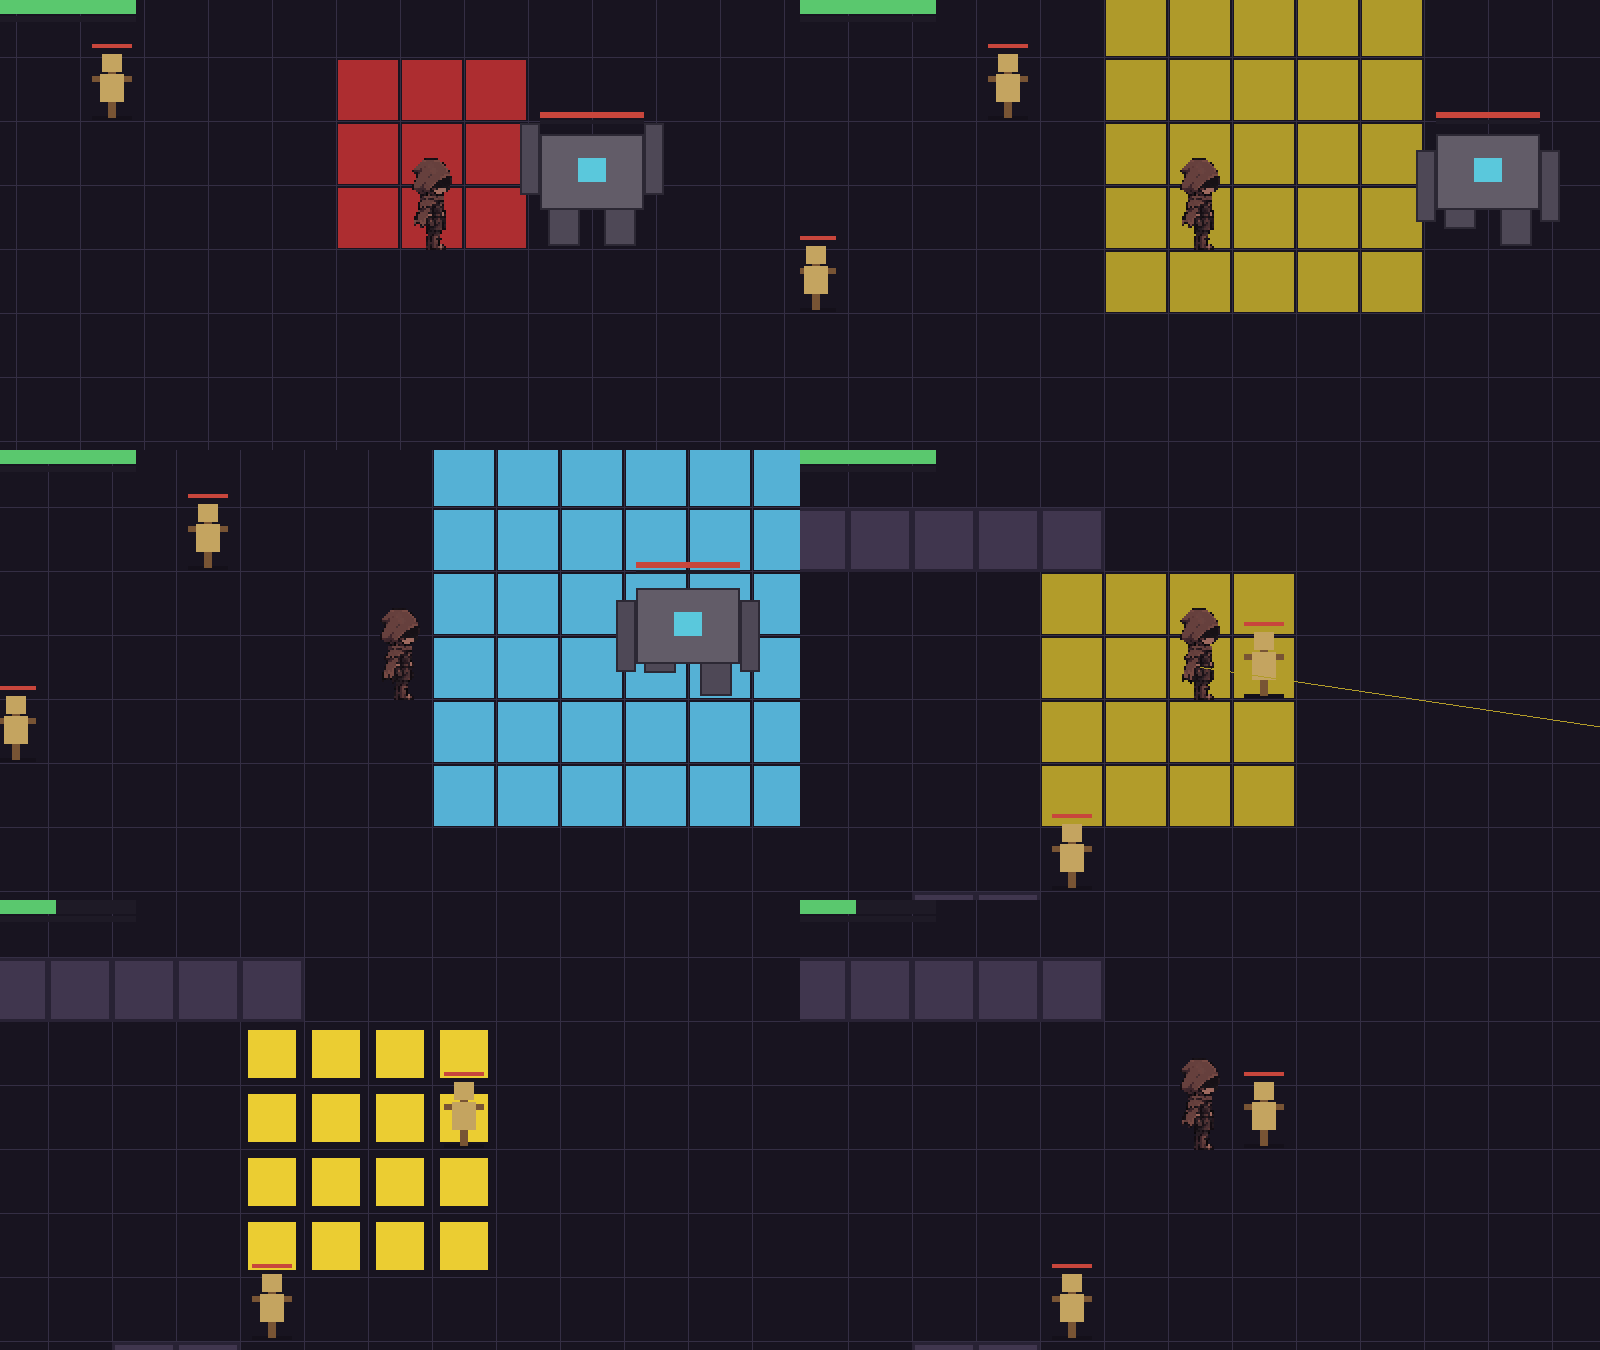
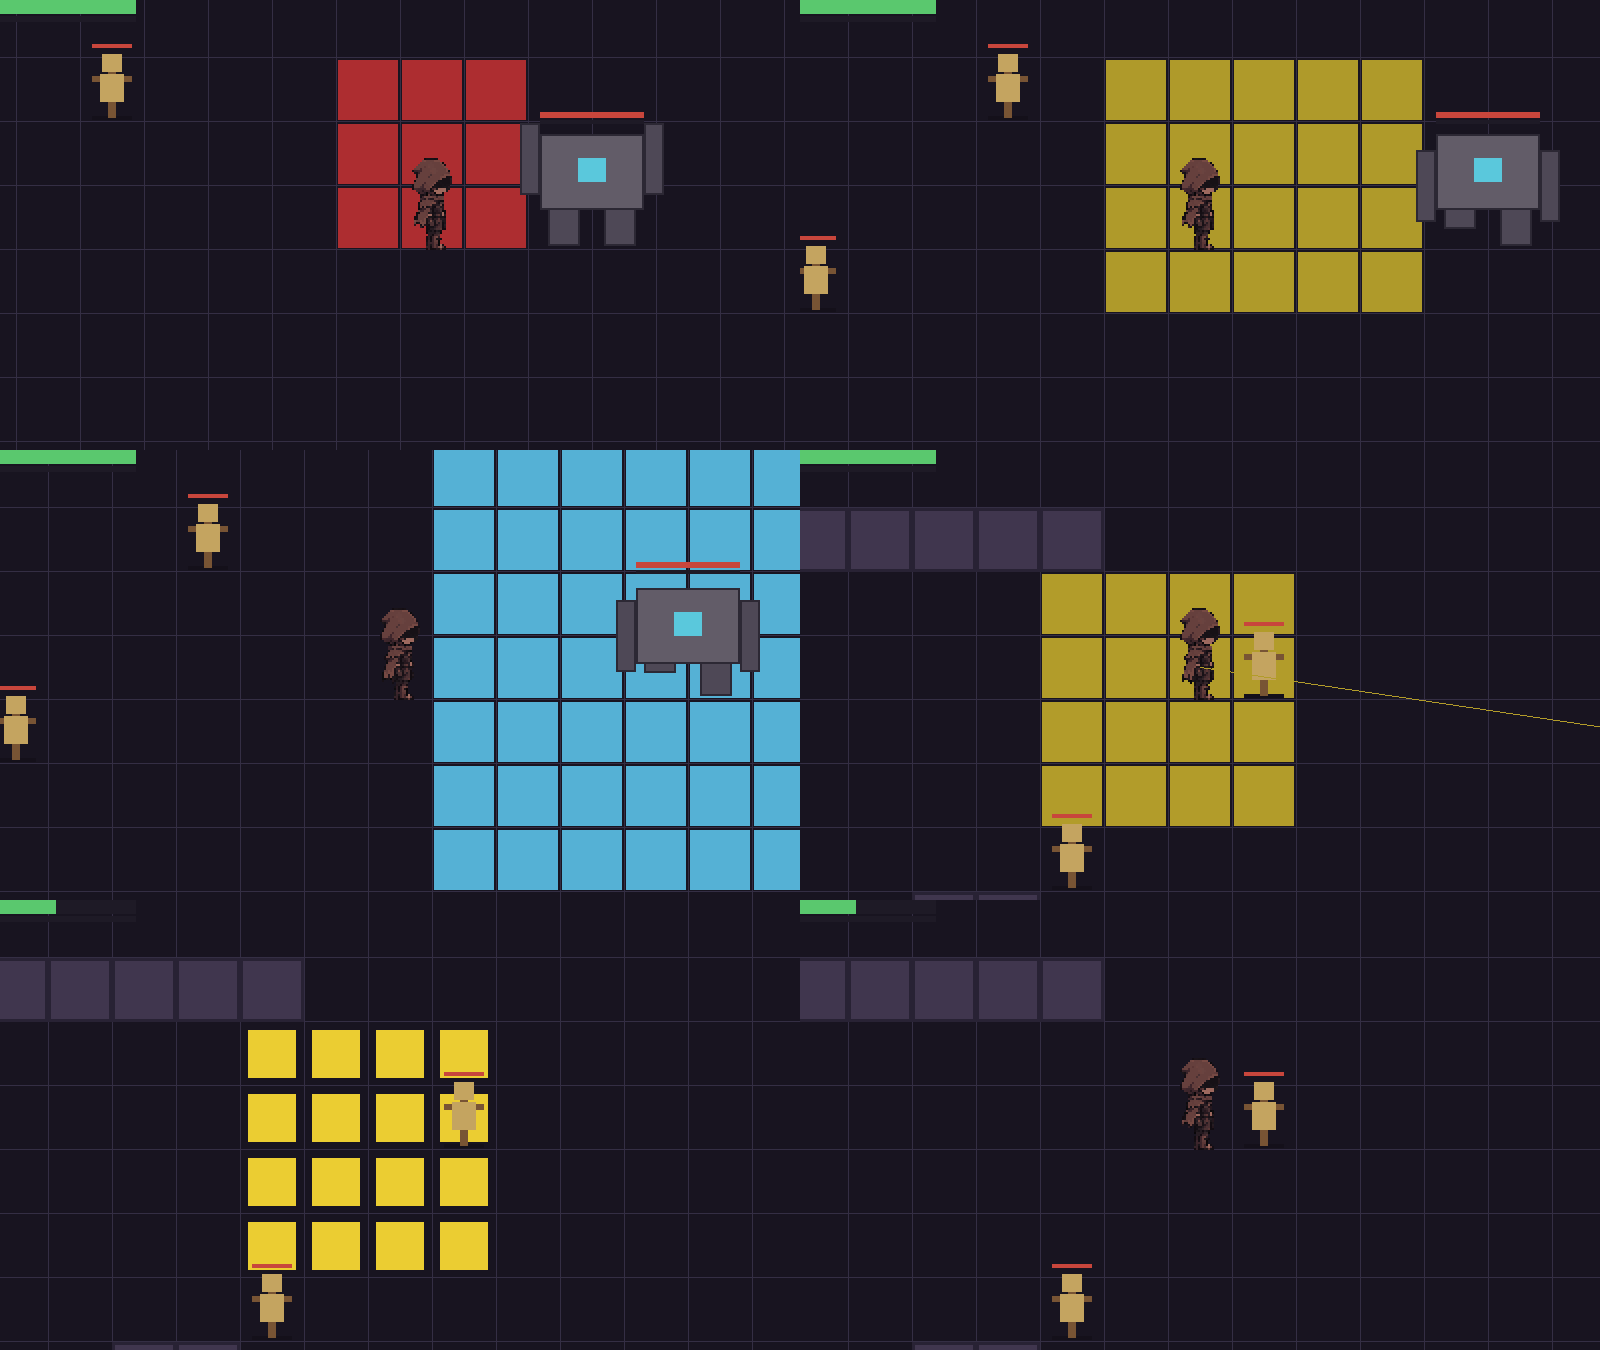
fix: 골렘 앞차기 가로 4×앞으로 5, 발 구르기 8×8 (대칭)
홀수 너비는 몸(2×2) 기준으로 대칭이 안 맞아 짝수로 변경 (사용자 요청)

Changed region(s): [[0.25, 0.5911, 0.5, 0.6844], [0.6875, 0.0, 0.9062, 0.0622]]

diff --git a/game/config.py b/game/config.py
@@ -178,9 +178,10 @@ GOLEM_HIT_FLASH_TIME = 0.1
 # 패턴: 예고 시간(초), 피해, 범위. 앞쪽 범위는 (가로 칸 수, 앞으로 칸 수).
 # 2026-11-17 사용자 요청: 예고가 길어 걸어서 쉽게 빠져나가서 ① 0.8 → 0.35, ② 0.6 → 0.3, ③ 1.2 → 0.55초
 GOLEM_SLAM = {"windup": 0.35, "damage": 20, "width": 3, "depth": 3}  # ① 두 손 모아 내려찍기: 패링 가능
-# 2026-11-17 사용자 요청으로 예고 0.3 → 0.6초, 범위 가로 3 → 5 (5×5)
-GOLEM_KICK = {"windup": 0.6, "damage": 15, "width": 5, "depth": 5}  # ② 뒤로 들었다 앞차기: 패링 불가, 회피 무적 가능
-GOLEM_STOMP = {"windup": 0.55, "damage": 30, "size": 7}  # 2026-11-17 사용자 요청으로 6×6 → 7×7  # ③ 한 발 내려찍기: 중심 6×6, 점프로만 피함
+# 2026-11-17 사용자 요청으로 예고 0.3 → 0.6초, 범위 가로 3 → 5 → 4 (가로 4 × 앞으로 5, 몸 양옆 1줄씩 대칭)
+GOLEM_KICK = {"windup": 0.6, "damage": 15, "width": 4, "depth": 5}  # ② 뒤로 들었다 앞차기: 패링 불가, 회피 무적 가능
+# 2026-11-17 사용자 요청으로 6×6 → 7×7 → 8×8 (몸 2×2 둘레로 3칸씩, 대칭)
+GOLEM_STOMP = {"windup": 0.55, "damage": 30, "size": 8}  # ③ 한 발 내려찍기: 중심 6×6, 점프로만 피함
 # ④ 코어 레이저: 4초 조준(조준점이 발사 순간까지 주인공을 따라옴) 후 조준점에서 4×4 폭발 (벽 칸은 제외).
 #   일직선으로 관통하지 않는다 (2026-11-17 사용자 결정). 패링 불가, 회피 무적으로 피함
 GOLEM_LASER = {"windup": 4.0, "damage": 40, "beam_time": 0.3, "size": 4}

diff --git a/tests/test_golem.py b/tests/test_golem.py
@@ -75,15 +75,16 @@ class GolemAreaTest(unittest.TestCase):
         self.golem.facing = (0, 1)
         area = self.golem.front_area(3, 5, (8, 7))
         self.assertEqual(area, {(c, r) for c in (6, 7, 8) for r in (6, 7, 8)})  # 위쪽 벽(9)에서 멈춤
-        # 가로 5 (앞차기): 몸 양옆 1줄씩 + 주인공 쪽 1줄
+        # 가로 4 (앞차기): 몸 양옆 1줄씩, 대칭
         self.golem.facing = (-1, 0)
-        area = self.golem.front_area(5, 5, (2, 5))
-        self.assertEqual(area, {(c, r) for c in range(1, 6) for r in range(3, 8)})
+        area = self.golem.front_area(4, 5, (2, 8))
+        self.assertEqual(area, {(c, r) for c in range(1, 6) for r in range(3, 7)})
 
-    def test_stomp_area_seven_by_seven(self):
-        # 7×7: 몸 (6~7, 4~5) 둘레로 2칸씩 + 남는 한 줄은 주인공 쪽 (왼쪽 아래에 있으면 왼쪽·아래로)
-        self.assertEqual(self.golem.stomp_area((1, 1)), {(c, r) for c in range(3, 10) for r in range(1, 8)})
-        self.assertEqual(self.golem.stomp_area((12, 8)), {(c, r) for c in range(4, 11) for r in range(2, 9)})
+    def test_stomp_area_eight_by_eight(self):
+        # 8×8: 몸 (6~7, 4~5) 둘레로 3칸씩, 주인공 위치와 상관없이 대칭 (아래쪽 0행·위쪽 9행은 벽이라 제외)
+        area = {(c, r) for c in range(3, 11) for r in range(1, 9)}
+        self.assertEqual(self.golem.stomp_area((1, 1)), area)
+        self.assertEqual(self.golem.stomp_area((12, 8)), area)
 
     def test_laser_explodes_four_by_four_at_aim(self):
         self.golem.aim = (3.0, 5.0)  # 조준점을 가운데로 한 4×4

diff --git a/game/enemies/golem.py b/game/enemies/golem.py
@@ -4,7 +4,8 @@
     가까우면(GOLEM_NEAR) ① 두 손 내려찍기·② 앞차기·③ 한 발 내려찍기 중 하나, 중간(GOLEM_MID)이면 ② 앞차기 또는 다가감,
     더 멀면 ④ 코어 레이저(GOLEM_LASER_COOLDOWN 에 한 번) 또는 다가감. 걸을 때는 쉬지 않고 이어서 걷는다.
 - 패턴마다 예고(windup) → 터짐(EnemyAttack 을 attacks 에 넣음) → 자세 되돌림(recover) → 쉼(rest).
-    ① 앞 3×3, 패링 가능  ② 앞 5×5, 패링 불가·회피 무적 가능  ③ 중심 7×7, 점프로만 피함
+    ① 앞 3×3, 패링 가능  ② 앞 가로 4 × 앞으로 5, 패링 불가·회피 무적 가능  ③ 중심 8×8, 점프로만 피함
+    범위는 몸(2×2)을 기준으로 늘린다. 홀수 너비(① 3)는 대칭이 안 되어 남는 한 줄을 주인공 쪽에 붙인다.
     ④ 4초 동안 조준점이 주인공을 그대로 따라오다(발사 순간까지) 조준점에서 4×4 폭발 (벽 칸 제외), 회피 무적으로 피함
 - 패링당하면 패링 게이지가 25% 차고(경직 없음), 가득 차면 2초 기절한다 (PostureGauge). 몬스터형이라 게이지는 저절로 줄지 않는다.
 - 체력이 다하면 사라졌다가 GOLEM_RESPAWN_TIME 뒤 처음 자리에 다시 나타난다.

diff --git a/PRE-PRD.md b/PRE-PRD.md
@@ -153,9 +153,9 @@
   - 패턴 (예고 후 터짐). 예고 칸(히트박스) 색은 공격 종류별 (2026-11-17 사용자 결정):
     **패링 가능한 일반 공격 = 빨강**, **패링 불가(회피로 피함) = 노랑**, **점프로만 피함 = 하늘색**. 터지기 직전일수록 진해집니다.
     - ① 두 손 모아 앞으로 내려찍기, 앞 **3×3**, **패링 가능**
-    - ② 발을 뒤로 들었다 앞으로 차기, 앞 ~~**3×5**(가로 3 × 앞으로 5)~~ **5×5** (2026-11-17 사용자 요청), 패링 불가 (회피 무적으로 피함)
-    - ③ 한 발 들고 내려찍기, 중심 ~~**6×6**~~ **7×7** (2026-11-17 사용자 요청), 회피·패링 불가 → **점프로 피함** (하단 공격)
-    - 골렘 몸이 2×2 라 홀수 너비는 정확히 가운데에 둘 수 없어, 남는 한 줄은 주인공이 있는 쪽으로 붙입니다.
+    - ② 발을 뒤로 들었다 앞으로 차기, 앞 ~~**3×5**(가로 3 × 앞으로 5)~~ ~~**5×5**~~ **가로 4 × 앞으로 5** (2026-11-17 사용자 요청, 대칭), 패링 불가 (회피 무적으로 피함)
+    - ③ 한 발 들고 내려찍기, 중심 ~~**6×6**~~ ~~**7×7**~~ **8×8** (2026-11-17 사용자 요청, 대칭), 회피·패링 불가 → **점프로 피함** (하단 공격)
+    - 범위는 골렘 몸(2×2)을 기준으로 늘립니다. 몸이 짝수라 홀수 너비(① 가로 3)는 대칭이 안 되어 남는 한 줄을 주인공 쪽에 붙입니다.
     - ④ 중앙 코어 레이저: **약 4초** 동안 조준점이 주인공을 따라다니며 충전한 뒤 발사, 패링 불가 (회피 무적으로 피함).
       조준점은 **발사 순간까지** 주인공을 그대로 따라옵니다 (2026-11-17 사용자 결정) → 걸어서는 못 피하고 회피 타이밍으로 피함.
       ~~벽까지 일직선~~ → 관통하지 않고 **조준점에서 4×4 폭발**, 범위 안의 벽 칸은 제외 (2026-11-17 사용자 결정)
@@ -283,6 +283,7 @@
 
 | 날짜 | 내용 | 작성 |
 |---|---|---|
+| 2026-11-17 | 사용자 요청으로 골렘 ② 앞차기 가로 4 × 앞으로 5, ③ 발 구르기 8×8 (대칭) (2.4) | Claude Code |
 | 2026-11-17 | 사용자 요청으로 골렘 ② 앞차기 5×5, ③ 발 구르기 7×7, 몬스터형 패링 게이지는 저절로 줄지 않음 (2.2, 2.4) | Claude Code |
 | 2026-11-17 | 사용자 결정으로 레이저를 조준점 4×4 폭발(벽 칸 제외)로, 회피 2칸, 퍼펙트 회피(노란 공격 직전 회피 시 대기 시간 없음) 추가, 시험 맵 골렘 주변 벽 제거 (2.2, 2.4) | Claude Code |
 | 2026-11-17 | 사용자 결정으로 골렘 ② 앞차기 예고 0.3 → 0.6초, 예고 칸 색을 공격 종류별로(빨강 패링 가능 / 노랑 패링 불가 / 하늘색 점프로만) (2.4) | Claude Code |

diff --git a/docs/DECISIONS.md b/docs/DECISIONS.md
@@ -349,5 +349,5 @@
   퍼펙트 회피: `Player.receive_attack` 이 먼저 확인한다. 노란색 공격(패링 불가·회피 가능)이 터질 때 회피를 시작한 칸이 범위 안이고
   회피 시작 뒤 `PLAYER_PERFECT_DODGE_WINDOW`(0.4초) 이내면 성공 → 회피 대기 시간 0, "PERFECT" 표시. 회피 한 번에 한 번.
   시험 맵: 골렘 주변 안쪽 벽(23열 세로 벽, 오른쪽 위 기둥, 오른쪽 아래 가로 벽) 제거 (사용자 요청).- 2026-11-17 수정: ② 앞차기 5×5, ③ 발 구르기 7×7. 몸(2칸)보다 넓은 범위는 `_spread` 로 양쪽에 똑같이 늘리고 남는 한 줄은 주인공 쪽.
-  `PostureGauge(decays=False)`: 몬스터형(골렘)은 패링 게이지가 시간이 지나도 줄지 않는다 (사용자 결정).
+  `PostureGauge(decays=False)`: 몬스터형(골렘)은 패링 게이지가 시간이 지나도 줄지 않는다 (사용자 결정).- 2026-11-17 수정: 홀수 너비가 대칭이 안 맞아 ② 앞차기 가로 4 × 앞으로 5, ③ 발 구르기 8×8 (짝수라 몸 2×2 기준으로 대칭).
 
